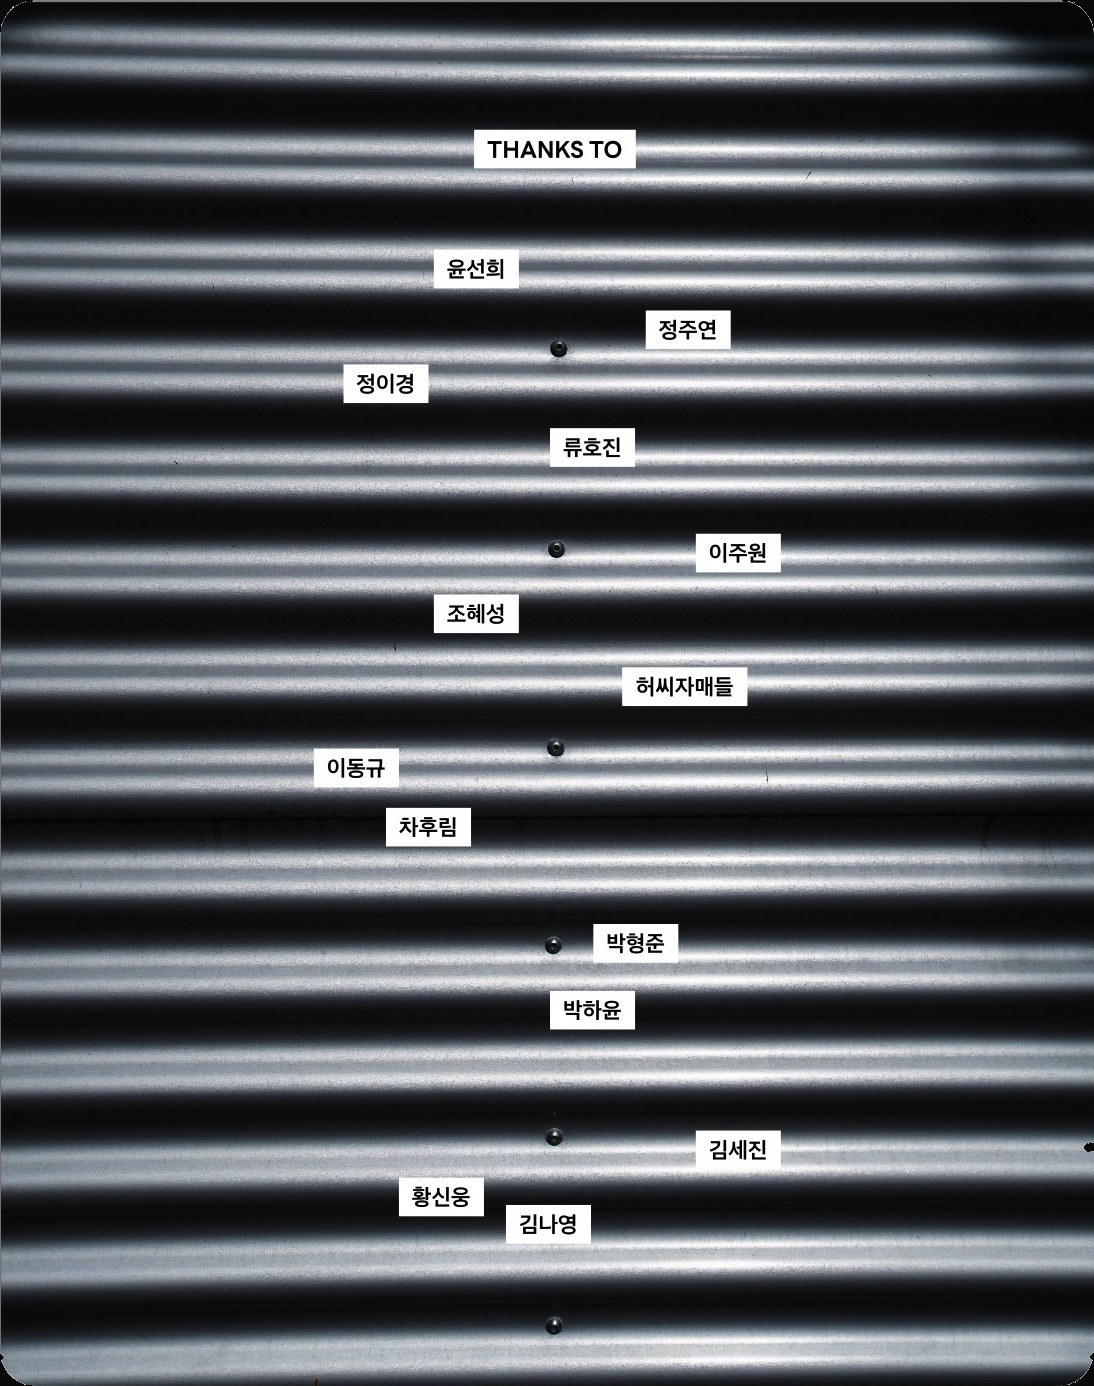
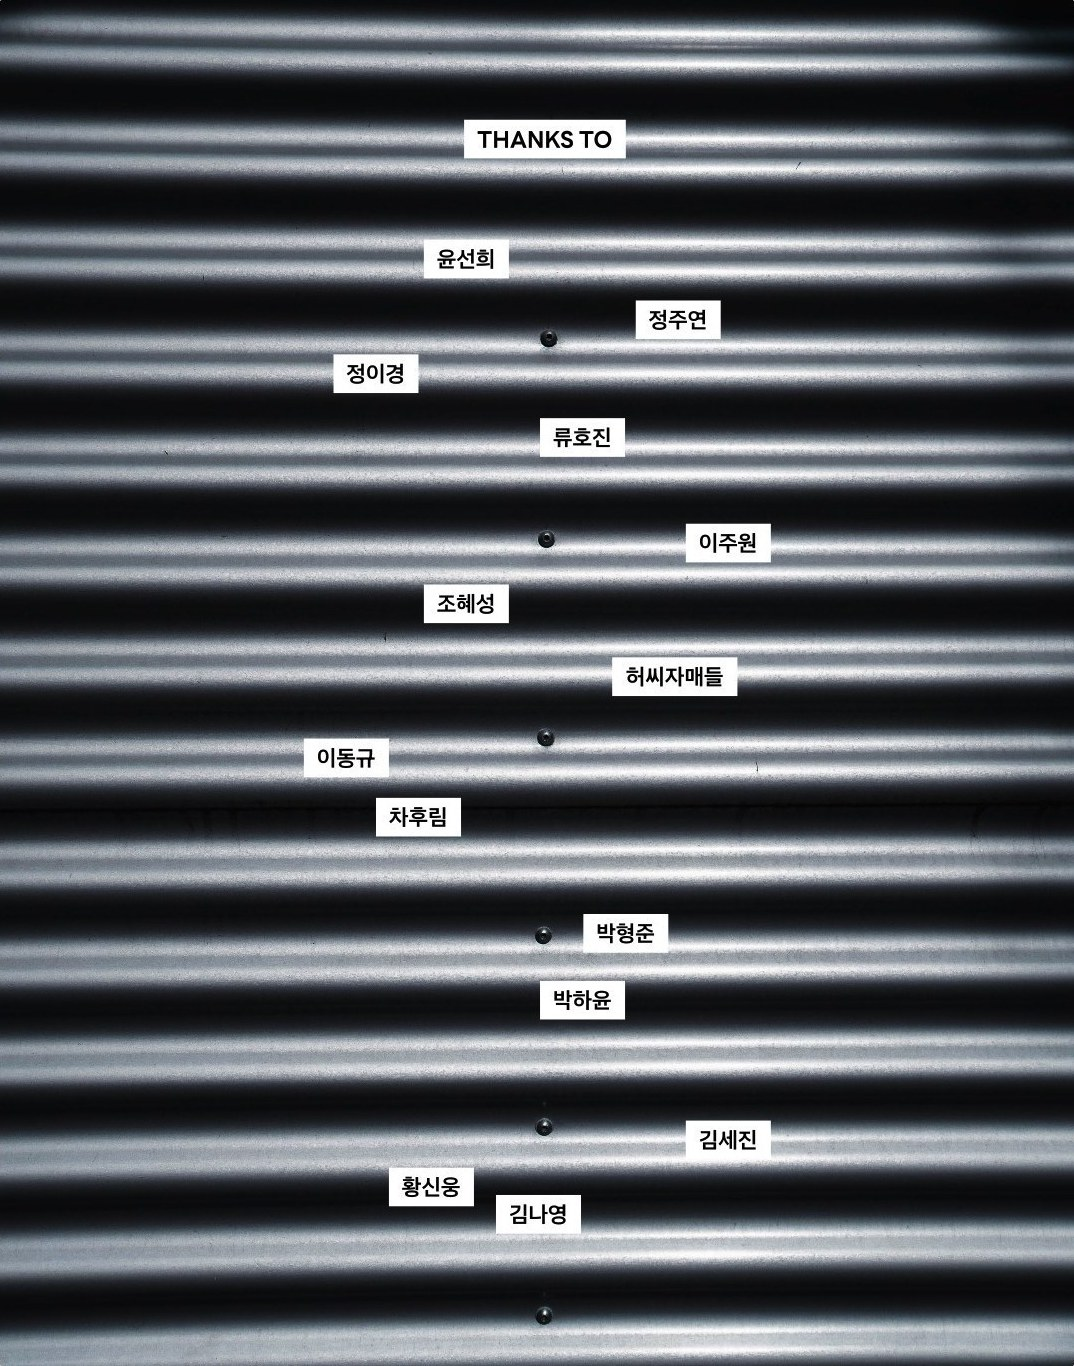
THANKS TO 사진: edge 10px 추가 trim + 좌표 재변환
테두리에 남아있던 흰 잔여를 확실히 잘라내기 위해 각 가장자리에서
추가 10px 잘라냄 (1094×1386 → 1074×1366). 14개 hotspot 좌표도
새 프레임 기준으로 다시 변환.

diff --git a/src/components/ThanksWall.tsx b/src/components/ThanksWall.tsx
@@ -12,23 +12,23 @@ import { AnimatePresence, motion } from "framer-motion";
 type Person = { name: string; role: string; x: number; y: number };
 
 // 좌표(%) 는 사진에 5% grid 를 덮어 직접 측정한 이름표 중심 픽셀.
-// 사진(1094×1386) 비율을 고정해서 반응형으로 자동 스케일됨.
-// (원본 1166×1458 에서 36px 흰 테두리 trim 후 좌표 변환 적용.)
+// 사진(1074×1366) 비율을 고정해서 반응형으로 자동 스케일됨.
+// (원본 1166×1458 → 36px white trim → +10px edge trim 누적, 좌표 변환 적용.)
 const PEOPLE: Person[] = [
-  { name: "선희", role: "작업실의 밥 로스 겸 멘탈 테라피스트", x: 41.5, y: 19.5 },
-  { name: "주연", role: "전시계획 디렉터 겸 렌더 후보정팀", x: 62.8, y: 23.7 },
-  { name: "이경", role: "모형 총감독", x: 35.1, y: 26.9 },
-  { name: "호진", role: "웹사이트 제작자 겸 생존지원팀", x: 53.2, y: 32.1 },
-  { name: "주원", role: "판넬·영상 제작지원팀", x: 68.1, y: 39.5 },
-  { name: "혜성", role: "설계의 북극성 겸 영상지원팀", x: 43.6, y: 44.7 },
-  { name: "허씨자매들", role: "긴급지원팀", x: 63.9, y: 50.0 },
-  { name: "동규", role: "모형·3D 프린팅 제작지원팀", x: 32.9, y: 55.3 },
-  { name: "후림", role: "모형·3D 프린팅 제작지원팀", x: 39.3, y: 59.5 },
-  { name: "형준", role: "멘탈케어 겸 운반지원팀", x: 58.5, y: 67.9 },
-  { name: "하윤", role: "디테일 긴급구조대", x: 54.3, y: 73.1 },
-  { name: "세진", role: "조경 방향잡이", x: 66.0, y: 82.6 },
-  { name: "신웅", role: "깨알 디테일팀", x: 40.4, y: 86.8 },
-  { name: "나영", role: "디테일 겸 졸전 기동지원대", x: 50.0, y: 88.9 },
+  { name: "선희", role: "작업실의 밥 로스 겸 멘탈 테라피스트", x: 41.3, y: 19.1 },
+  { name: "주연", role: "전시계획 디렉터 겸 렌더 후보정팀", x: 63.0, y: 23.3 },
+  { name: "이경", role: "모형 총감독", x: 34.8, y: 26.6 },
+  { name: "호진", role: "웹사이트 제작자 겸 생존지원팀", x: 53.3, y: 31.8 },
+  { name: "주원", role: "판넬·영상 제작지원팀", x: 68.4, y: 39.3 },
+  { name: "혜성", role: "설계의 북극성 겸 영상지원팀", x: 43.5, y: 44.6 },
+  { name: "허씨자매들", role: "긴급지원팀", x: 64.2, y: 50.0 },
+  { name: "동규", role: "모형·3D 프린팅 제작지원팀", x: 32.6, y: 55.4 },
+  { name: "후림", role: "모형·3D 프린팅 제작지원팀", x: 39.1, y: 59.6 },
+  { name: "형준", role: "멘탈케어 겸 운반지원팀", x: 58.7, y: 68.2 },
+  { name: "하윤", role: "디테일 긴급구조대", x: 54.4, y: 73.4 },
+  { name: "세진", role: "조경 방향잡이", x: 66.3, y: 83.1 },
+  { name: "신웅", role: "깨알 디테일팀", x: 40.2, y: 87.3 },
+  { name: "나영", role: "디테일 겸 졸전 기동지원대", x: 50.0, y: 89.5 },
 ];
 
 export function ThanksWall() {
@@ -38,7 +38,7 @@ export function ThanksWall() {
     <figure className="mx-auto w-full max-w-[680px]">
       <div
         className="relative w-full overflow-hidden"
-        style={{ aspectRatio: "1094 / 1386" }}
+        style={{ aspectRatio: "1074 / 1366" }}
       >
         <img
           src={`${import.meta.env.BASE_URL}media/thanks-wall.jpg`}
